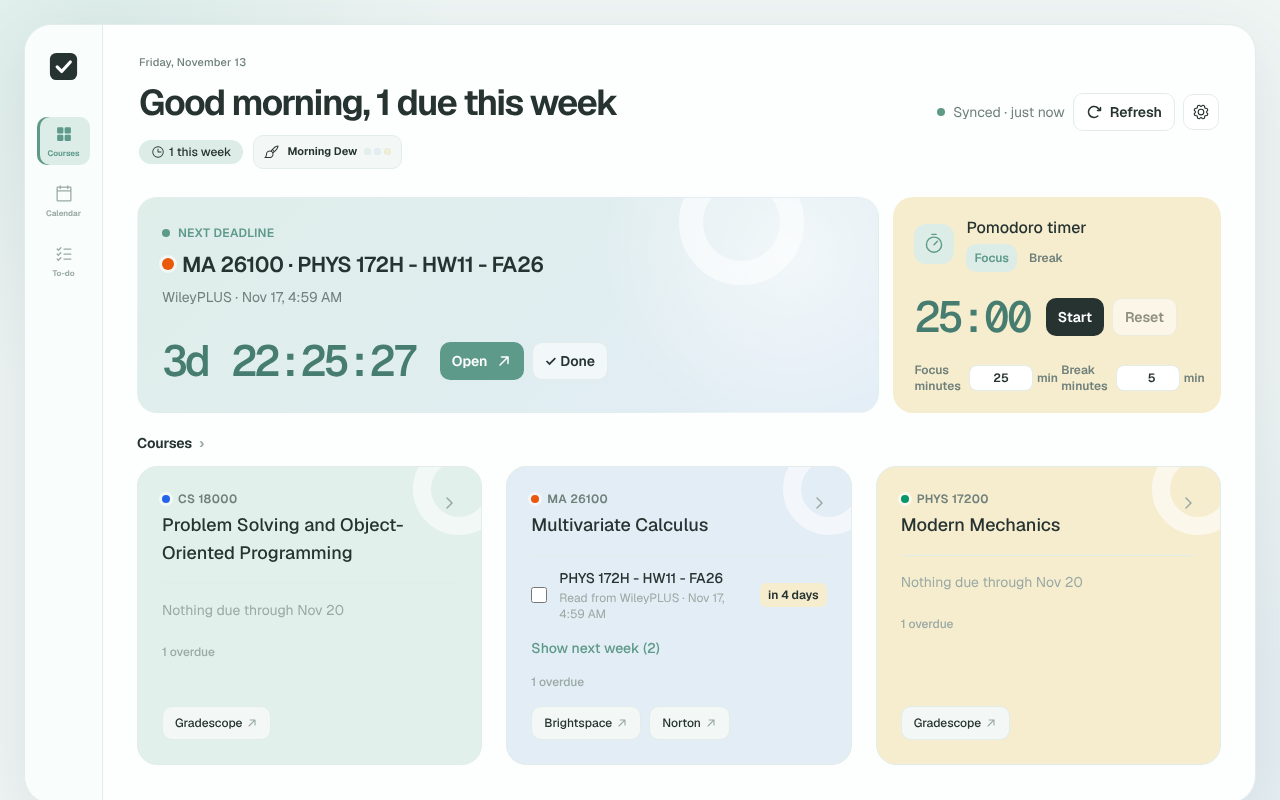
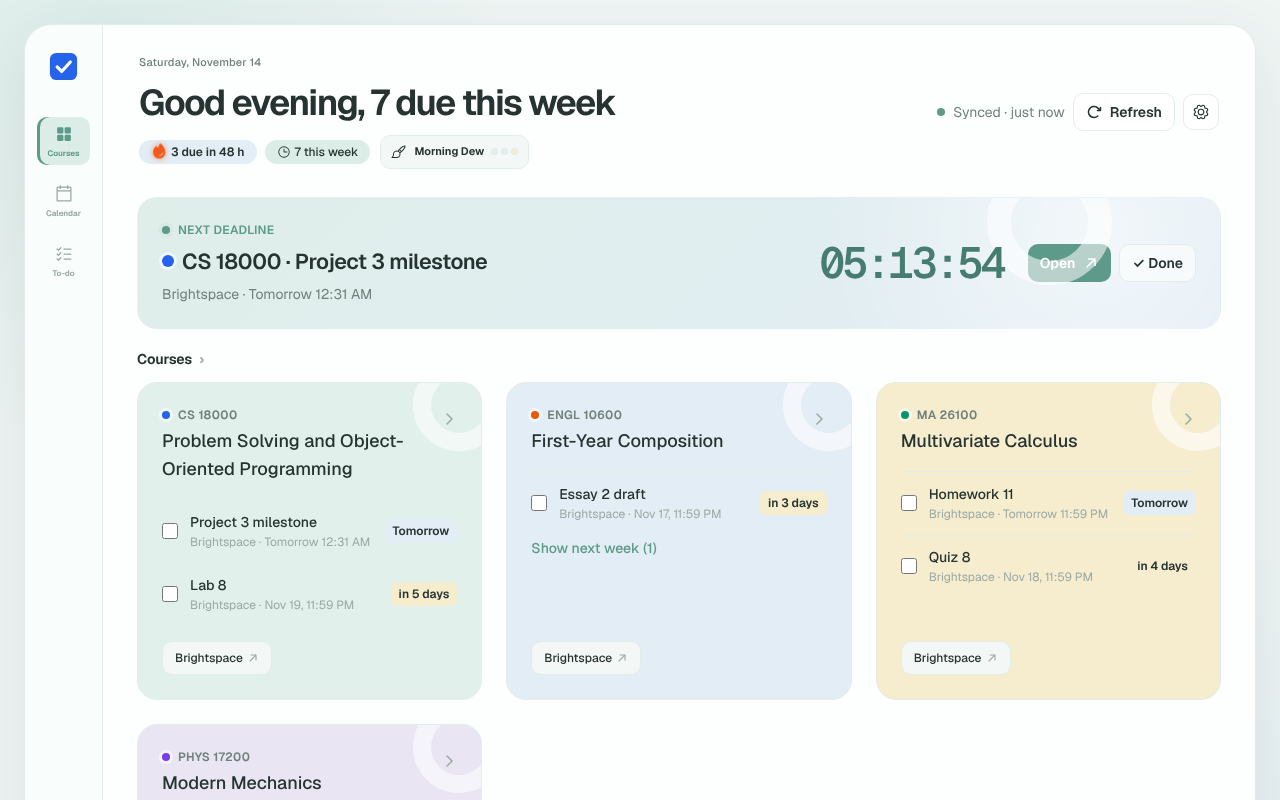
docs: list readable platforms and DueBoard 1.6.0 in the README and website
The README gets a What's new in 1.6.0 section and a grouped list of the
platforms DueBoard reads. The website shows the new class calendar in
place of the focus timer, which is not part of the main build.

Claude-Session: https://claude.ai/code/session_01YSmZu67Q1vHhbmVgwmotvG

diff --git a/docs/index.html b/docs/index.html
@@ -30,14 +30,14 @@
 
     <section class="hero">
       <div>
-        <p class="eyebrow">New: study themes and a focus timer</p>
+        <p class="eyebrow">New in 1.6.0: your classes in the calendar</p>
         <h1>Every deadline,<br><em>one page.</em></h1>
         <p>Stop clicking through every course in Brightspace and opening Gradescope, Pearson, WileyPLUS, ALEKS and the rest one by one. Sign in to Brightspace once — DueBoard finds the rest and puts every due date in one place.</p>
         <div class="cta">
           <a class="btn" href="https://chromewebstore.google.com/detail/lbmhglpjaedaijknkngdpoacagdgmoji">Add to Chrome</a>
           <a class="btn secondary" href="#features">See what it does</a>
         </div>
-        <p class="note">Free · Open source · Chrome, Edge and Firefox · Currently for Purdue's Brightspace</p>
+        <p class="note">Version 1.6.0 · Free · Open source · Chrome, Edge and Firefox · Currently for Purdue's Brightspace</p>
       </div>
 
       <div class="preview" aria-label="Example of the DueBoard dashboard">
@@ -52,28 +52,23 @@
           </div>
         </div>
 
-        <div class="card timer-card" data-demo-timer>
-          <div>
-            <div class="modes" role="group" aria-label="Timer mode">
-              <button type="button" data-mode="focus" aria-pressed="true">Focus</button>
-              <button type="button" data-mode="break" aria-pressed="false">Break</button>
-            </div>
-            <div class="clock mono" role="timer" data-clock>25:00</div>
-          </div>
-          <div class="card-actions">
-            <button type="button" class="btn small" data-toggle>Start</button>
-            <button type="button" class="btn small secondary" data-reset>Reset</button>
-          </div>
+        <div class="card week-card" aria-label="Example of the calendar's week view">
+          <p class="label">THURSDAY</p>
+          <ul class="week-list">
+            <li class="due"><span class="dot" aria-hidden="true"></span>MA 26100 · Homework 11<span class="mono">Due 11:59 PM</span></li>
+            <li class="class"><span class="mono">9:30–10:20</span>CS 18000 · Lec21</li>
+            <li class="class"><span class="mono">1:30–2:20</span>PHYS 17200 · Recitation</li>
+          </ul>
         </div>
       </div>
     </section>
 
     <figure class="shot-frame">
       <div class="shot-bar" aria-hidden="true"><i></i><i></i><i></i></div>
-      <img class="shot" data-shot="morning-dew" src="assets/dashboard-morning-dew.png" width="1280" height="800" alt="The DueBoard dashboard in the Morning Dew theme: the next deadline with a live countdown, the focus timer and course cards">
-      <img class="shot" data-shot="noon-cafe" src="assets/dashboard-noon-cafe.png" width="1280" height="800" loading="lazy" alt="The DueBoard dashboard in the Noon Cafe theme: the next deadline with a live countdown, the focus timer and course cards">
-      <img class="shot" data-shot="dusk-lullaby" src="assets/dashboard-dusk-lullaby.png" width="1280" height="800" loading="lazy" alt="The DueBoard dashboard in the Dusk Lullaby theme: the next deadline with a live countdown, the focus timer and course cards">
-      <img class="shot" data-shot="nightowl" src="assets/dashboard-nightowl.png" width="1280" height="800" loading="lazy" alt="The DueBoard dashboard in the Nightowl theme: the next deadline with a live countdown, the focus timer and course cards">
+      <img class="shot" data-shot="morning-dew" src="assets/dashboard-morning-dew.png" width="1280" height="800" alt="The DueBoard dashboard in the Morning Dew theme: the next deadline with a live countdown and course cards">
+      <img class="shot" data-shot="noon-cafe" src="assets/dashboard-noon-cafe.png" width="1280" height="800" loading="lazy" alt="The DueBoard dashboard in the Noon Cafe theme: the next deadline with a live countdown and course cards">
+      <img class="shot" data-shot="dusk-lullaby" src="assets/dashboard-dusk-lullaby.png" width="1280" height="800" loading="lazy" alt="The DueBoard dashboard in the Dusk Lullaby theme: the next deadline with a live countdown and course cards">
+      <img class="shot" data-shot="nightowl" src="assets/dashboard-nightowl.png" width="1280" height="800" loading="lazy" alt="The DueBoard dashboard in the Nightowl theme: the next deadline with a live countdown and course cards">
     </figure>
 
     <div class="section-head" id="features">
@@ -98,12 +93,12 @@
         <p>The nearest deadline is always on top with a live countdown. Open it in one click, or mark it done and see what's next.</p>
       </div>
       <div class="feature">
-        <h3>Focus timer <span class="new">New</span></h3>
-        <p>A Pomodoro timer for 25-minute focus sessions and 5-minute breaks, on the dashboard and in the toolbar popup. It keeps running while you work.</p>
+        <h3>Your classes in the calendar <span class="new">New</span></h3>
+        <p>Lectures and recitations your courses post in Brightspace appear in the week view at their real times, never among your work. What's due each day sits on top.</p>
       </div>
       <div class="feature">
         <h3>Calendar and to-do</h3>
-        <p>Week and month views show which days pile up. Tick work off in the to-do list; work you handed in is ticked for you.</p>
+        <p>The week view shows what's due each day above your class times; the month view shows which days pile up. Tick work off in the to-do list; work you handed in is ticked for you.</p>
       </div>
       <div class="feature">
         <h3>Course cards</h3>

diff --git a/docs/site.css b/docs/site.css
@@ -24,7 +24,7 @@
   --hover: #eaf3f0;
   --next-a: #dfeee9;
   --next-b: #e2edf6;
-  --timer: #f6edcf;
+  --week-panel: #f6edcf;
   --course-1: #e2f0eb;
   --course-2: #e3edf5;
   --course-3: #f6edcf;
@@ -54,7 +54,7 @@
   --hover: #f4e7da;
   --next-a: #f2dfca;
   --next-b: #f3cdb8;
-  --timer: #efe4c8;
+  --week-panel: #efe4c8;
   --course-1: #eee0c8;
   --course-2: #f3d2bf;
   --course-3: #e7d8c5;
@@ -84,7 +84,7 @@
   --hover: #5c3d56;
   --next-a: #684052;
   --next-b: #59405b;
-  --timer: #60483f;
+  --week-panel: #60483f;
   --course-1: #564250;
   --course-2: #683f55;
   --course-3: #634b3f;
@@ -114,7 +114,7 @@
   --hover: #30334a;
   --next-a: #292b48;
   --next-b: #233947;
-  --timer: #343044;
+  --week-panel: #343044;
   --course-1: #253a3d;
   --course-2: #352e49;
   --course-3: #3b3540;
@@ -131,7 +131,7 @@
     --page: #11131d; --glow-a: rgb(82 75 151 / 0.28); --glow-b: rgb(58 101 122 / 0.24); --shell: rgb(24 26 39 / 0.98);
     --surface: #202334; --subtle: #292c40; --ink: #eef0fa; --muted: #aeb3c9; --faint: #8f94ac; --line: #34384f;
     --accent: #8f86e8; --accent-strong: #a69fff; --btn: #8f86e8; --on-btn: #11131d; --accent-soft: #343353; --hover: #30334a; --next-a: #292b48;
-    --next-b: #233947; --timer: #343044; --course-1: #253a3d; --course-2: #352e49; --course-3: #3b3540;
+    --next-b: #233947; --week-panel: #343044; --course-1: #253a3d; --course-2: #352e49; --course-3: #3b3540;
     --course-4: #27384c; --countdown: #a69fff; --overlay: rgb(255 255 255 / 0.09); --shadow: rgb(0 0 0 / 0.28);
     color-scheme: dark;
   }
@@ -217,7 +217,7 @@ nav a[aria-current='page'] { background: var(--accent-soft); color: var(--accent
 .cta { display: flex; flex-wrap: wrap; gap: 10px; }
 .hero .note { font-size: 13px; color: var(--faint); margin: 16px 0 0; }
 
-/* Live preview built from the dashboard's next-deadline card and focus timer. */
+/* Live preview built from the dashboard's next-deadline card and a day of the calendar's week view. */
 .preview { display: grid; gap: 14px; animation: rise 600ms cubic-bezier(0.22, 1, 0.36, 1) both; }
 .card {
   position: relative; overflow: hidden; border-radius: 20px; padding: 22px 24px; color: var(--ink);
@@ -228,7 +228,14 @@ nav a[aria-current='page'] { background: var(--accent-soft); color: var(--accent
   border: 24px solid var(--overlay); border-radius: 50%; content: ''; pointer-events: none;
 }
 .next-card { background: radial-gradient(circle at 88% 25%, var(--overlay), transparent 28%), linear-gradient(135deg, var(--next-a), var(--next-b)); }
-.timer-card { background: var(--timer); display: flex; flex-wrap: wrap; align-items: center; justify-content: space-between; gap: 16px; }
+.week-card { background: var(--week-panel); }
+.week-list { display: grid; gap: 8px; margin: 0; padding: 0; list-style: none; }
+.week-list li { display: flex; align-items: center; gap: 10px; padding: 8px 12px; border-radius: 12px; font-size: 14px; }
+.week-list .due { background: var(--surface); font-weight: 600; box-shadow: inset 3px 0 0 var(--accent-strong); }
+.week-list .due .mono { margin-left: auto; color: var(--muted); font-weight: 500; }
+.week-list .class { background: var(--overlay); color: var(--muted); }
+.week-list .mono { flex-shrink: 0; font-size: 12px; font-variant-numeric: tabular-nums; white-space: nowrap; }
+.week-list .dot { width: 8px; height: 8px; flex-shrink: 0; border-radius: 50%; background: #e0699a; }
 .card > * { position: relative; z-index: 1; }
 .label { display: flex; align-items: center; gap: 8px; margin: 0 0 8px; font-size: 12px; font-weight: 600; letter-spacing: 0.06em; color: var(--accent-strong); }
 .pulse { position: relative; width: 8px; height: 8px; border-radius: 50%; background: currentColor; }
@@ -238,10 +245,6 @@ nav a[aria-current='page'] { background: var(--accent-soft); color: var(--accent
 .card .sub { margin: 4px 0 0; color: var(--muted); font-size: 14px; }
 .countdown { display: block; margin: 14px 0 16px; color: var(--countdown); font-size: clamp(34px, 4.6vw, 52px); font-weight: 560; line-height: 1; letter-spacing: -0.07em; font-variant-numeric: tabular-nums; }
 .card-actions { display: flex; flex-wrap: wrap; gap: 8px; }
-.clock { color: var(--countdown); font-size: clamp(30px, 3.6vw, 42px); font-weight: 520; line-height: 1; letter-spacing: -0.07em; font-variant-numeric: tabular-nums; }
-.modes { display: inline-flex; gap: 4px; margin: 0 0 10px; padding: 3px; border-radius: 999px; background: var(--overlay); }
-.modes button { border: 0; border-radius: 999px; background: transparent; color: var(--muted); padding: 4px 12px; font: inherit; font-size: 12px; font-weight: 600; cursor: pointer; }
-.modes button[aria-pressed='true'] { background: var(--surface); color: var(--ink); box-shadow: 0 1px 3px var(--shadow); }
 
 /* Screenshot in a browser-style frame. */
 .shot-frame { margin: 0 0 72px; border: 1px solid var(--line); border-radius: 20px; background: var(--subtle); overflow: hidden; box-shadow: 0 24px 60px var(--shadow); }

diff --git a/docs/theme.js b/docs/theme.js
@@ -92,58 +92,6 @@
     setInterval(tick, 1000);
   }
 
-  function startDemoTimer() {
-    var box = document.querySelector('[data-demo-timer]');
-    if (!box) return;
-    var clock = box.querySelector('[data-clock]');
-    var toggle = box.querySelector('[data-toggle]');
-    var reset = box.querySelector('[data-reset]');
-    var modes = box.querySelectorAll('[data-mode]');
-    var lengths = { focus: 25 * 60, break: 5 * 60 };
-    var mode = 'focus';
-    var left = lengths.focus;
-    var timer = null;
-
-    function render() {
-      clock.textContent = pad(Math.floor(left / 60)) + ':' + pad(left % 60);
-      toggle.textContent = timer ? 'Pause' : left < lengths[mode] ? 'Resume' : 'Start';
-      for (var i = 0; i < modes.length; i++) {
-        modes[i].setAttribute('aria-pressed', String(modes[i].getAttribute('data-mode') === mode));
-      }
-    }
-    function stop() {
-      clearInterval(timer);
-      timer = null;
-    }
-    function setMode(next) {
-      stop();
-      mode = next;
-      left = lengths[mode];
-      render();
-    }
-    toggle.addEventListener('click', function () {
-      if (timer) {
-        stop();
-      } else {
-        timer = setInterval(function () {
-          left -= 1;
-          if (left <= 0) setMode(mode === 'focus' ? 'break' : 'focus');
-          else render();
-        }, 1000);
-      }
-      render();
-    });
-    reset.addEventListener('click', function () {
-      setMode(mode);
-    });
-    for (var i = 0; i < modes.length; i++) {
-      modes[i].addEventListener('click', function (e) {
-        setMode(e.currentTarget.getAttribute('data-mode'));
-      });
-    }
-    render();
-  }
-
   document.addEventListener('DOMContentLoaded', function () {
     paint();
     var switches = document.querySelectorAll('[data-theme-switch]');
@@ -159,6 +107,5 @@
       });
     }
     startDemoDeadline();
-    startDemoTimer();
   });
 })();

diff --git a/README.md b/README.md
@@ -13,6 +13,15 @@
 
 > DueBoard is a student-built, open-source project and is **not affiliated with Purdue University, D2L Brightspace, Gradescope, Pearson, Wiley or any other platform it reads**.
 
+## What's new in 1.6.0
+
+- **Your classes in the calendar, not among your work.** Lectures, recitations and office hours that courses post in the Brightspace calendar ("Lec21", "LEC 22", "Lecture") no longer show up on course cards, in the to-do list or in the counts.
+- **A week view laid out by time.** What's due each day sits in a *Due* row on top; your classes fill a time grid below, in each course's color, side by side when they overlap, with a line at the current time.
+- **A tidier to-do list**, a redesigned dashboard with four study themes, and background reading that never opens a tab or window.
+- **New site access:** `socket.pearsoned.com` (Pearson's sign-in gateway). Chrome asks you to approve it when DueBoard updates.
+
+Full list in the [changelog](CHANGELOG.md); downloads on the [releases page](https://github.com/Yokiwa/dueboard/releases).
+
 ## Why
 
 At Purdue every course lives in Brightspace, but homework is spread across Gradescope, Pearson MyLab, WileyPLUS, ALEKS, InQuizitive, WebAssign and more — each with its own list of due dates. DueBoard collects them so you can see what is due next without clicking through every course.
@@ -22,7 +31,7 @@ At Purdue every course lives in Brightspace, but homework is spread across Grade
 - **One sign-in.** Start with Brightspace. DueBoard reads your courses and discovers their platforms. Pearson sign-in and its Assignments link are followed inside a hidden reader. Automatic sync never navigates the dashboard or creates a tab or window. Vendor-required authentication or consent can still need your interaction.
 - **Course cards.** Upcoming work per course with countdowns, plus one-click shortcuts to each course's platforms.
 - **Next deadline.** The nearest deadline is emphasized at the top with a live countdown, an *Open* button and a *Done* button.
-- **Calendar and to-do views.** Animated switching between course cards, week and month calendars, and a to-do list you can tick off, grouped into Overdue, Today, This week and Later with a count on each group. Class meetings your courses post in the Brightspace calendar (lectures, recitations) appear in the week view only, never among your work.
+- **Calendar and to-do views.** Animated switching between course cards, week and month calendars, and a to-do list you can tick off, grouped into Overdue, Today, This week and Later with a count on each group. The week view lists what's due each day on top and your class meetings below in a time grid; classes appear only there, never among your work.
 - **Handed-in work ticks itself off, with its score.** Brightspace (your submission or gradebook grade), Gradescope, Pearson MyLab and other homework pages say whether you handed the work in; DueBoard ticks it off and shows the score. Untick something DueBoard ticked and it stays unticked.
 - **Overdue for the whole term.** Every past-due assignment, quiz and homework since the course started, not only last week's. Work no source has said anything about moves into a collapsed **Not sure if handed in** section of the to-do list until one does, or until you tick it.
 - **Study themes.** Switch between Nightowl, Morning Dew, Noon Cafe and Dusk Lullaby, or let Automatic choose for the time of day. Theme changes fade smoothly without interrupting your work.
@@ -45,17 +54,30 @@ At Purdue every course lives in Brightspace, but homework is spread across Grade
 
 Use the theme button in the dashboard header to cycle through all five choices. The selected theme is saved across reloads and can also be changed from **Settings → Appearance**. The toolbar popup follows the same theme.
 
-### Where due dates come from
+### Platforms DueBoard reads
 
-| Platform | How DueBoard gets the due date |
+**Read directly** (most reliable):
+
+| Platform | What DueBoard reads |
 |---|---|
-| Brightspace | Assignments, quizzes, calendar events and dated content items, read directly |
-| Gradescope | Read from your Gradescope course pages when you are signed in |
-| Pearson MyLab & Mastering | Read from MyLab when a course links to Pearson; if the session expired, DueBoard reopens it through Brightspace |
-| WileyPLUS, ALEKS, Norton (InQuizitive, Smartwork), WebAssign, McGraw-Hill Connect, Achieve, Cengage, zyBooks, Top Hat, Perusall, Packback, Hawkes, Vista Higher Learning, Sapling, Expert TA, Knewton Alta, PrairieLearn, Vocareum, GoReact, LabFlow, BeyondLabz, Circuit, Variate | Attempted in a hidden frame through your Brightspace homework link; compatibility varies |
-| Any other platform Brightspace launches | Requires site access and a compatible background reader; an unknown site may remain unavailable |
-| Syllabus (Simple Syllabus, PDF or web page in Content) | Shown as suggestions you can add or hide |
-| Anything else | Add it by hand; it stays until you remove it |
+| Brightspace | Courses, assignments, quizzes, calendar events (class meetings go to the calendar only), dated content items, whether you handed work in, and your gradebook scores |
+| Gradescope | Assignments, due dates, submission status ("Submitted" / "No Submission") and scores, from your course pages when you are signed in |
+| Pearson MyLab & Mastering | Assignment list, due dates and scores when a course links to Pearson; if the session expired, DueBoard signs back in through Brightspace in the background |
+
+**Read in a hidden frame through your Brightspace homework link** (the due date, and for past-due work whether the page shows a score or "Submitted"):
+
+- Confirmed with real accounts: **WileyPLUS**, **Macmillan Achieve**
+- Same reader, tested on sample pages only: **ALEKS**, **Norton** (InQuizitive, Smartwork), **WebAssign**, **McGraw-Hill Connect**, **Cengage** (MindTap, OWL), **zyBooks**, **Top Hat**, **Perusall**, **Packback**, **Hawkes Learning**, **Vista Higher Learning**, **Sapling**, **Expert TA**, **Knewton Alta**, **PrairieLearn**, **Vocareum**, **GoReact**, **LabFlow**, **BeyondLabz**, **Circuit** and **Variate** (the last two recognized by the link's title)
+
+**Syllabus:** Simple Syllabus, and syllabus PDFs or web pages in course Content. Dates found there are shown as suggestions you can add or hide.
+
+**Recognized, no due dates** (shown as course shortcuts): Piazza, Ed, Campuswire, iClicker, Google Forms, Turnitin.
+
+**Never opened** (so DueBoard can't start a timed or proctored attempt): ExamSoft, Respondus (LockDown Browser), Honorlock, Examity, and any link whose title says quiz, exam, midterm or test.
+
+**Any other platform** Brightspace launches: DueBoard names the site and asks for access to it; with access, the same hidden-frame reader tries it, and whether it finds a date depends on the page. **Anything else** can be added by hand and stays until you remove it.
+
+If your course uses one of the "sample pages only" platforms, an export of the visit log (Settings → Diagnostics → Download visit log) shows whether it reads correctly; please attach it to an issue.
 
 A date from Brightspace always wins over one read on a platform page, and every platform date says where it was read ("Read from ALEKS", shown when you hover over the item in the to-do list). The same sources say whether the work was handed in; a score of 0 on its own doesn't count, since platforms show 0 for missing work.
 
@@ -64,6 +86,7 @@ A date from Brightspace always wins over one read on a platform page, and every 
 - **Chrome Web Store:** [Add to Chrome](https://chromewebstore.google.com/detail/lbmhglpjaedaijknkngdpoacagdgmoji) (also works in Microsoft Edge, Brave, Arc and Opera).
 - **Firefox Add-ons:** link coming soon (needs Firefox 140 or later).
 - **Manual install (testers, about two minutes):** follow the [illustrated install guide](https://yokiwa.github.io/dueboard/install.html). The same steps are in [docs/guide/01-install.md](docs/guide/01-install.md).
+- **Focus edition:** a special build of 1.6.0 with a Pomodoro timer (its own *Timer* tab, below To-do) and a music player (a *Music* tab below it, ambient sounds, your own files and YouTube Music links). It is not on the stores; download `dueboard-1.6.0-focus-*.zip` from the [releases page](https://github.com/Yokiwa/dueboard/releases) and install it the manual way. Don't install it next to the regular version.
 
 DueBoard currently supports `purdue.brightspace.com`.
 
